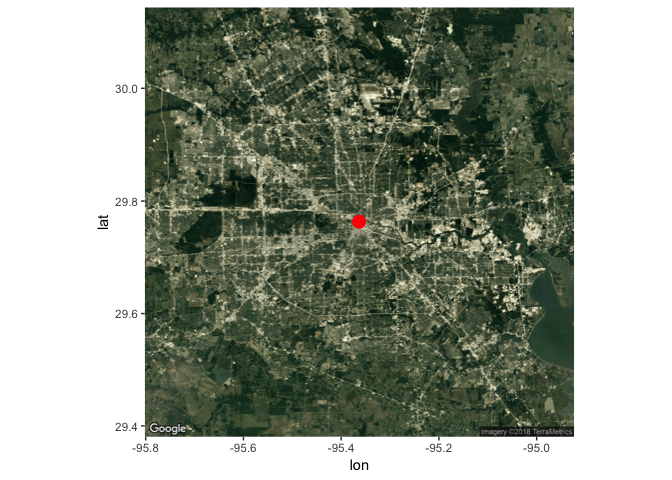
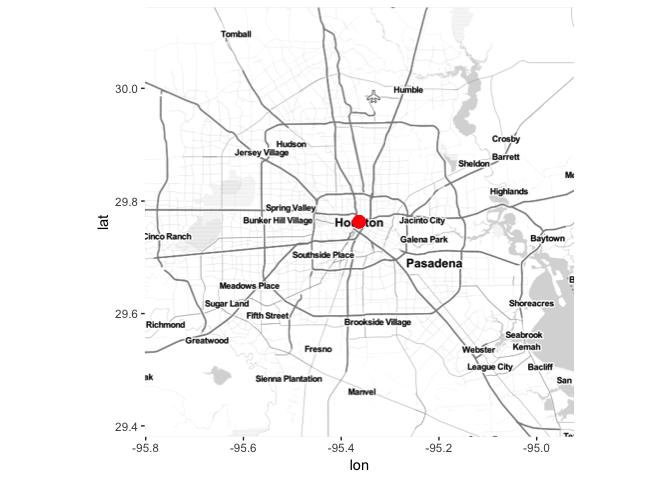
updates to abcs

diff --git a/examples/r-examples/00-abcs-for-r/README.md b/examples/r-examples/00-abcs-for-r/README.md
@@ -838,11 +838,29 @@ require(ggmap)
 # get_map() takes a location, zoom, maptype, and source, and others as arguements
 map_area = get_map(location = c(lon = -95.3632715, lat = 29.7632836), 
                    zoom = 10,
-                   maptype="satellite",
-                   source="google")
+                   maptype="toner-lite",
+                   source="stamen")
 ```
 
-    ## Map from URL : http://maps.googleapis.com/maps/api/staticmap?center=29.763284,-95.363271&zoom=10&size=640x640&scale=2&maptype=satellite&language=en-EN&sensor=false
+    ## Map from URL : http://maps.googleapis.com/maps/api/staticmap?center=29.763284,-95.363271&zoom=10&size=640x640&scale=2&maptype=terrain&sensor=false
+
+    ## Map from URL : http://tile.stamen.com/toner-lite/10/239/422.png
+
+    ## Map from URL : http://tile.stamen.com/toner-lite/10/240/422.png
+
+    ## Map from URL : http://tile.stamen.com/toner-lite/10/241/422.png
+
+    ## Map from URL : http://tile.stamen.com/toner-lite/10/239/423.png
+
+    ## Map from URL : http://tile.stamen.com/toner-lite/10/240/423.png
+
+    ## Map from URL : http://tile.stamen.com/toner-lite/10/241/423.png
+
+    ## Map from URL : http://tile.stamen.com/toner-lite/10/239/424.png
+
+    ## Map from URL : http://tile.stamen.com/toner-lite/10/240/424.png
+
+    ## Map from URL : http://tile.stamen.com/toner-lite/10/241/424.png
 
 ``` r
 # we call ggmap() as our plotting area
@@ -918,16 +936,40 @@ ggplot(data=nycBoroughs) +
 
 ![](README_files/figure-markdown_github/unnamed-chunk-40-1.png)
 
-Now imagine being able to combine our polygons (above) over a satellite image. Do you think you can handle it? I can hardly contain myself!
+Now imagine being able to combine our polygons (above) over a stamen's toner-lite tiles. Do you think you can handle it? I can hardly contain myself!
 
 ``` r
 ny_map_area = get_map(location = c(lon=-73.979452, lat= 40.755870), 
-                   zoom = "auto",
-                   maptype="satellite",
-                   source="google")
+                   zoom = 10,
+                   maptype="toner-lite",
+                   source="stamen")
 ```
 
-    ## Map from URL : http://maps.googleapis.com/maps/api/staticmap?center=40.75587,-73.979452&zoom=10&size=640x640&scale=2&maptype=satellite&language=en-EN&sensor=false
+    ## Map from URL : http://maps.googleapis.com/maps/api/staticmap?center=40.75587,-73.979452&zoom=10&size=640x640&scale=2&maptype=terrain&sensor=false
+
+    ## Map from URL : http://tile.stamen.com/toner-lite/10/300/383.png
+
+    ## Map from URL : http://tile.stamen.com/toner-lite/10/301/383.png
+
+    ## Map from URL : http://tile.stamen.com/toner-lite/10/302/383.png
+
+    ## Map from URL : http://tile.stamen.com/toner-lite/10/300/384.png
+
+    ## Map from URL : http://tile.stamen.com/toner-lite/10/301/384.png
+
+    ## Map from URL : http://tile.stamen.com/toner-lite/10/302/384.png
+
+    ## Map from URL : http://tile.stamen.com/toner-lite/10/300/385.png
+
+    ## Map from URL : http://tile.stamen.com/toner-lite/10/301/385.png
+
+    ## Map from URL : http://tile.stamen.com/toner-lite/10/302/385.png
+
+    ## Map from URL : http://tile.stamen.com/toner-lite/10/300/386.png
+
+    ## Map from URL : http://tile.stamen.com/toner-lite/10/301/386.png
+
+    ## Map from URL : http://tile.stamen.com/toner-lite/10/302/386.png
 
 ``` r
 # we call ggmap() as our plotting area
@@ -1053,6 +1095,9 @@ summary(rain_csv)
     ##  Mean   : 6.50   Mean   :101.08  
     ##  3rd Qu.: 9.25   3rd Qu.:138.75  
     ##  Max.   :12.00   Max.   :186.00
+
+Distributions
+=============
 
 Standard Deviation
 ------------------
